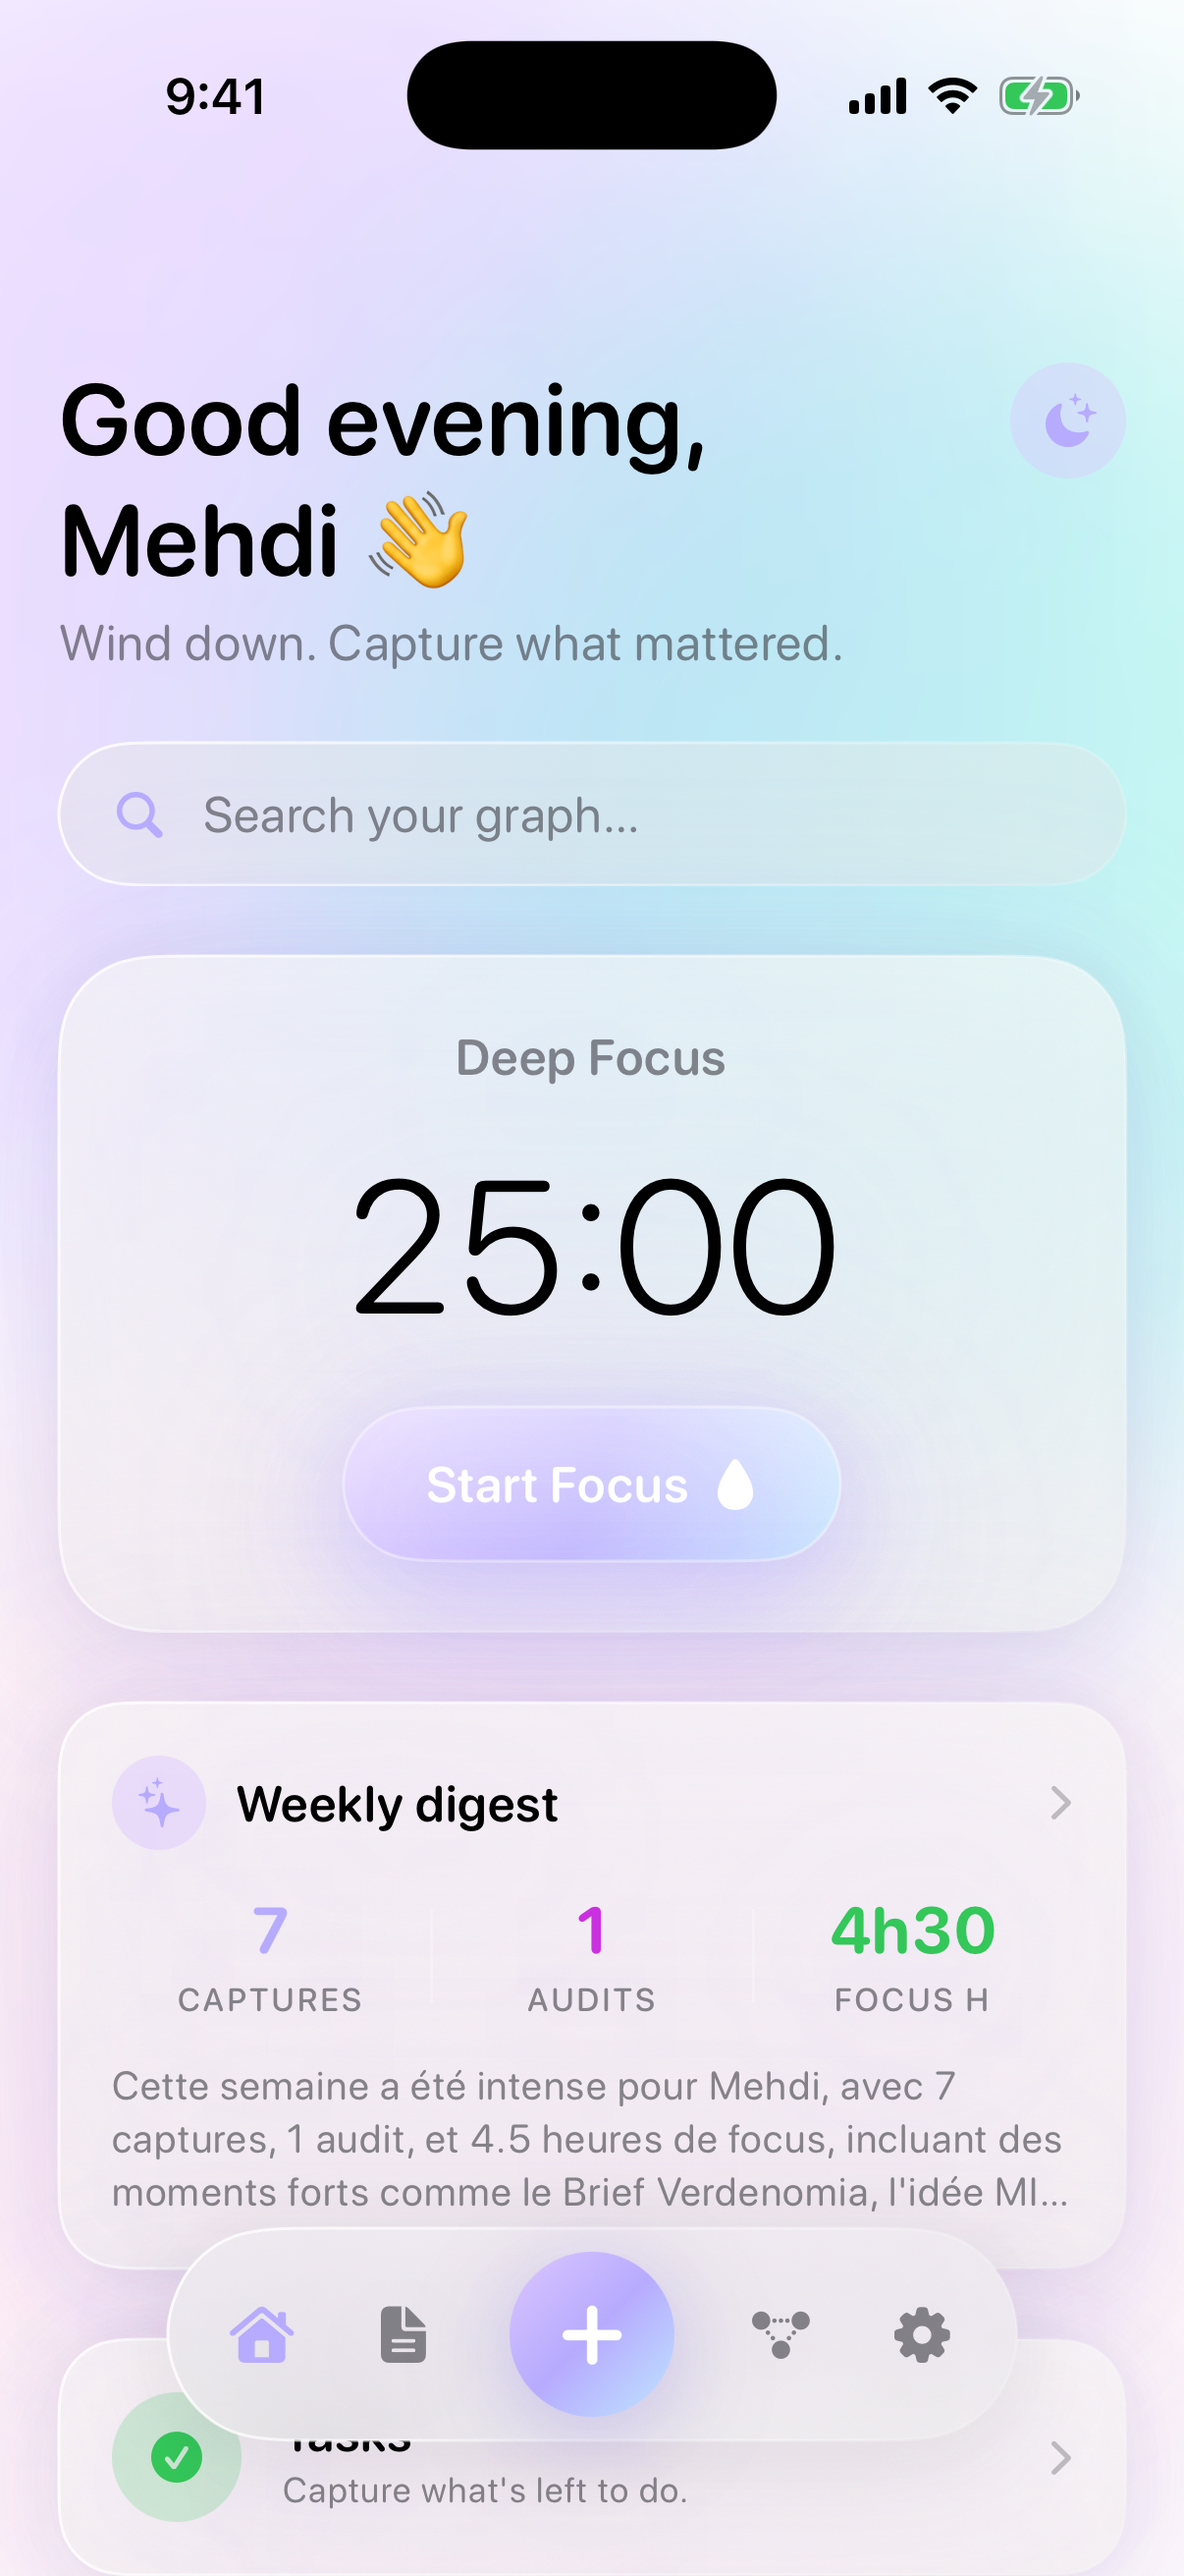
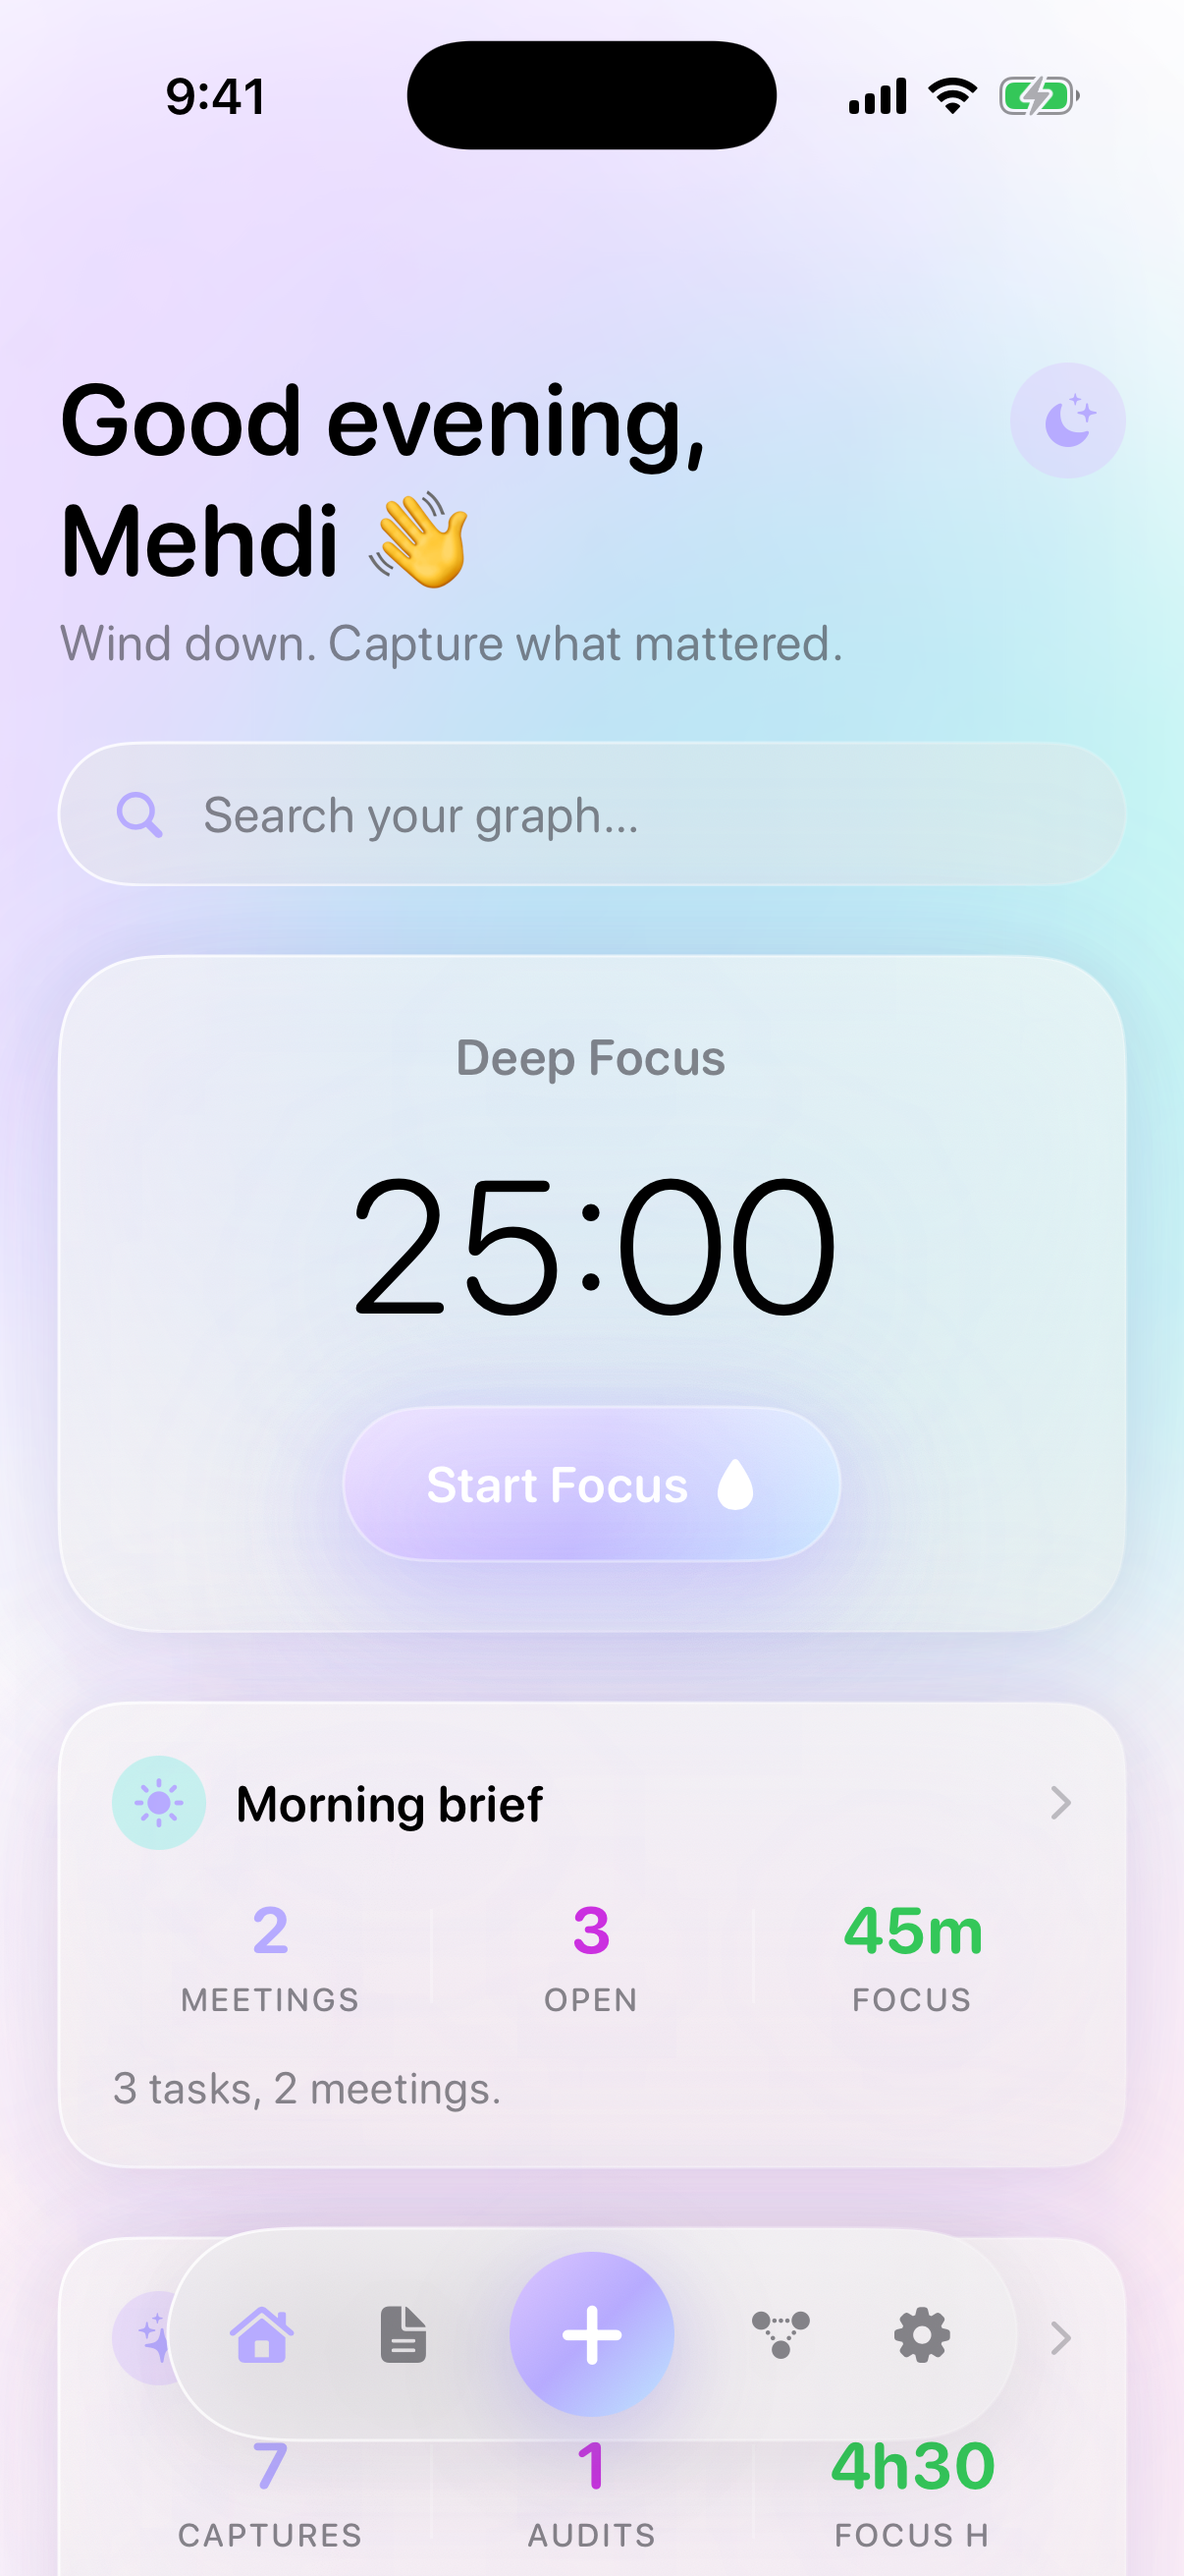
MIND: v0.17.1 — Morning brief above weekly digest on Home
Reorders the two summary cards on HomeView so the actionable
"Brief du matin" (v0.17) renders above the retrospective "Bilan
de la semaine" (v0.16). The user lands on the wake-up card first
when both gates are open on Sunday / Monday mornings.

What changed
------------
- App/Sources/RootView.swift: swap the two `if shouldShow…`
  blocks, drop a doc comment explaining the ordering rationale.
- screenshots/v0.17.png: re-captured with the new ordering so
  the morning brief card is fully visible in the first viewport
  instead of peeking out at the bottom.

Tests
-----
- No new tests. 273 total, 0 failures (unchanged from v0.17).

Vision verification
-------------------
Screenshot at mind/screenshots/v0.17.png shows the "Brief du
matin" card directly under the Deep Focus timer, with 2 MEETINGS
/ 3 OPEN / 45m FOCUS counters and the "3 tasks, 2 meetings."
headline. The weekly digest card sits one row below, partially
visible at the bottom of the viewport.

diff --git a/mind/App/Sources/RootView.swift b/mind/App/Sources/RootView.swift
@@ -554,12 +554,16 @@ private struct HomeView: View {
                     healthWeekCard
                 }
 
-                if shouldShowWeeklyDigest, let digest = weeklyDigest {
-                    weeklyDigestCard(digest)
-                }
-
+                // v0.17 — Morning brief comes first: it's the actionable
+                // wake-up card. The retrospective weekly digest renders
+                // just below so the user sees both on Sunday/Monday
+                // mornings without scrolling.
                 if shouldShowDailyBrief, let brief = dailyBrief {
                     dailyBriefCard(brief)
+                }
+
+                if shouldShowWeeklyDigest, let digest = weeklyDigest {
+                    weeklyDigestCard(digest)
                 }
 
                 tasksCard
